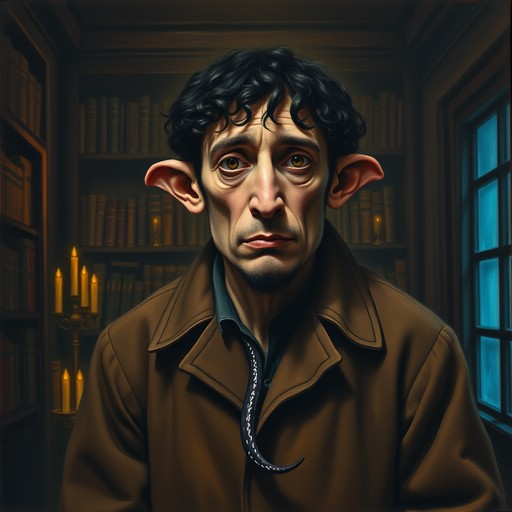
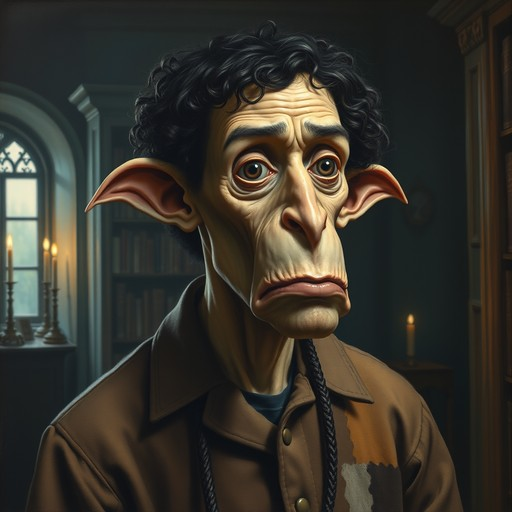
21.16 (mejoras): Whateley rehecho, Derby alterna con Asenath y retratos en la Biblioteca
Claude-Session: https://claude.ai/code/session_01NBdv2MNvdKd6X2vrErMRCD

diff --git a/tools/gen_retratos.py b/tools/gen_retratos.py
@@ -9,8 +9,9 @@ descripciones siguen la tabla de personajes de tools/CLAUDE.md (lo que se ve del
   python tools/gen_retratos.py --usar dyer=2 peaslee=1   # copia esas al juego
 
 Elegidos el 16-11-2026 (semilla de cada uno): dyer=1 peaslee=1 olmstead=1 legrasse=1 johansen=1
-varga=3 whipple=2 blake=2 iwanicki=2 elwood=1 malone=2 armitage=1 west=2 carter=1 whateley=3
-pickman=2 ward=1 gilman=1 tillinghast=2 derby=2 kuranes=5 (con el aro, tras rehacerlo).
+varga=3 whipple=2 blake=2 iwanicki=2 elwood=1 malone=2 armitage=1 west=2 carter=1 whateley=16
+pickman=2 ward=1 gilman=1 tillinghast=2 derby=2 kuranes=5 (con el aro, tras rehacerlo); whateley, rehecho sin
+«goat» en la descripción (con la palabra salían cuernos), semillas 11 a 16; asenath=1 (Derby alterna con ella en la selección).
 
 Arrancar ComfyUI antes (tools/comfyui.cmd). Pruebas: tools/local/retrato_<pj>_A_<semilla>.png y la
 hoja tools/local/retratos_hoja.png. Al juego: resources/retratos/<pj>.jpg (512 × 512, calidad 90:
@@ -65,9 +66,11 @@ LOOKS = {
     'carter': "Randolph Carter, a 1920s Boston dreamer: a man in his forties with dark hair greying at the "
               "temples and heavy eyelids, a long midnight blue overcoat, a grey waistcoat and a small bow tie, a "
               "silver key glowing faintly on his chest",
-    'whateley': "Wilbur Whateley, a huge stooping young man from rural 1920s Massachusetts: a goatish face with no "
-                "chin, drooping ears, curly black hair, a short patched brown coat, deeply unsettling inhuman "
-                "features, a dark tentacle tip peeking from under the coat",
+    'whateley': "Wilbur Whateley, a huge stooping young man from rural 1920s Massachusetts with an "
+                "unsettling deformed face: a very long narrow sheeplike face, a receding chin that almost "
+                "melts into the neck, a heavy drooping lower lip, a wide flat nose, long ears that hang down "
+                "beside his cheeks, yellowish leathery skin, coarse curly black hair, large dark wet eyes set "
+                "wide apart, a short patched brown coat, a dark tentacle tip peeking from under the coat",
     'pickman': "Richard Upton Pickman, a thin 1920s Boston painter: long messy very dark hair, unshaven, sunken "
                "dark eyes with dark circles, an off-white linen painter's smock with big oil paint stains in "
                "crimson, ochre and green, a black artist's bow at the neck, a paintbrush in the breast pocket",

diff --git a/docs/ESTADO.md b/docs/ESTADO.md
@@ -3509,5 +3509,10 @@ Por tramos: nivel 1; nivel 2; nivel 3; niveles 4 y 5. Lo de cada nivel vive en `
 - **Selección:** el retrato va en un marco de latón de 188 × 276 entre el recuadro del jugador y el del arma, donde estaba el modelo. El modelo voxel sale con un fundido de 0,22 s mientras se mantiene LB/RB (Q/E) y 1,4 s después (`MODEL_LINGER`), en el paso del vestuario (las prendas solo se ven en él), con `turn=` (capturas) y en quien aún no tenga retrato. Al cambiar de personaje vuelve el retrato. El retrato se oscurece igual que el modelo: bloqueado, ya elegido por otro o en sombra si es un secreto cerrado.
 - **Tienda:** los personajes llevan su retrato en lugar de la cabeza voxel (`Shop.catalog`, `e.icon`).
 - **Capturas:** `shots/seleccion_retratos4_003.0s.png` (cuatro jugadores), `shots/seleccion_retrato_giro_003.0s.png` (con `turn=90`, el modelo) y `shots/titulo_tienda_retratos_012.0s.png` (tienda, pestaña Personajes).
-- **Para el autor:** Whateley sale con orejas de elfo más que con cara de cabra (ninguna de las tres semillas lo consigue). Si no convence, se puede rehacer con más semillas.
+- **Whateley:** las tres semillas primeras le ponían orejas de elfo. Al pedir «goat-like» salían cabezas de cabra con cuernos (también con «no horns»). Sin la palabra cabra, con la cara descrita («sheeplike», sin barbilla, labio caído, orejas largas) sale bien: semilla 16. Las orejas siguen hacia los lados en vez de colgar.
 - **Tests:** 3 en `tests/test_portraits.gd` (todos tienen retrato cuadrado, sin retrato da null, la tienda lo usa). Suite: 1044 de 1044.
+- **Mejoras (16-11-2026, encargo del autor):**
+  - Whateley, rehecho (arriba).
+  - Derby alterna con Asenath en la selección: el retrato de su segundo cuerpo (`alt_model`, `resources/retratos/asenath.jpg`, semilla 1) va encima y aparece cada 4,5 s, con un fundido de 0,8 s (`ALT_CYCLE`, `ALT_FADE`). Capturas: `shots/seleccion_derby_002.0s.png` (Edward) y `_004.5s.png` (Asenath), con `pick=derby`.
+  - La ficha del investigador en la Biblioteca (tomo V) lleva el retrato en lugar del modelo, si se le conoce; si no, sigue la silueta del modelo, para no destapar a los secretos. Captura: `shots/titulo_biblio_retrato_012.0s.png`.
+  - Tests: `test_portraits` (Derby tiene también el de Asenath). Suite: 1045 de 1045.
